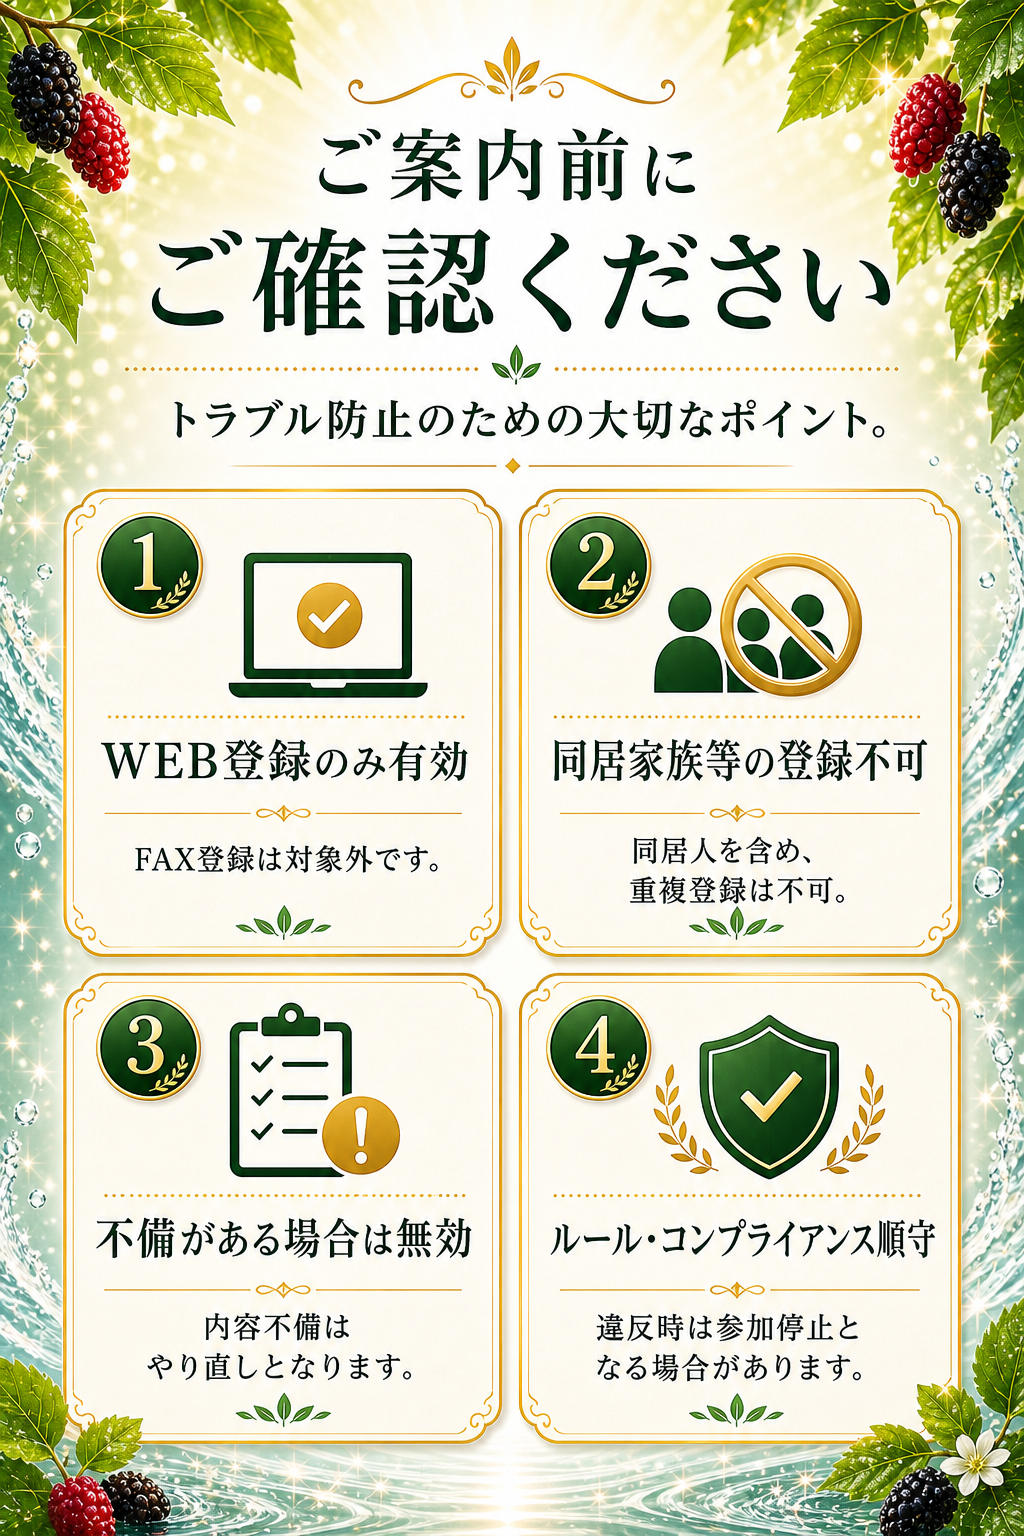
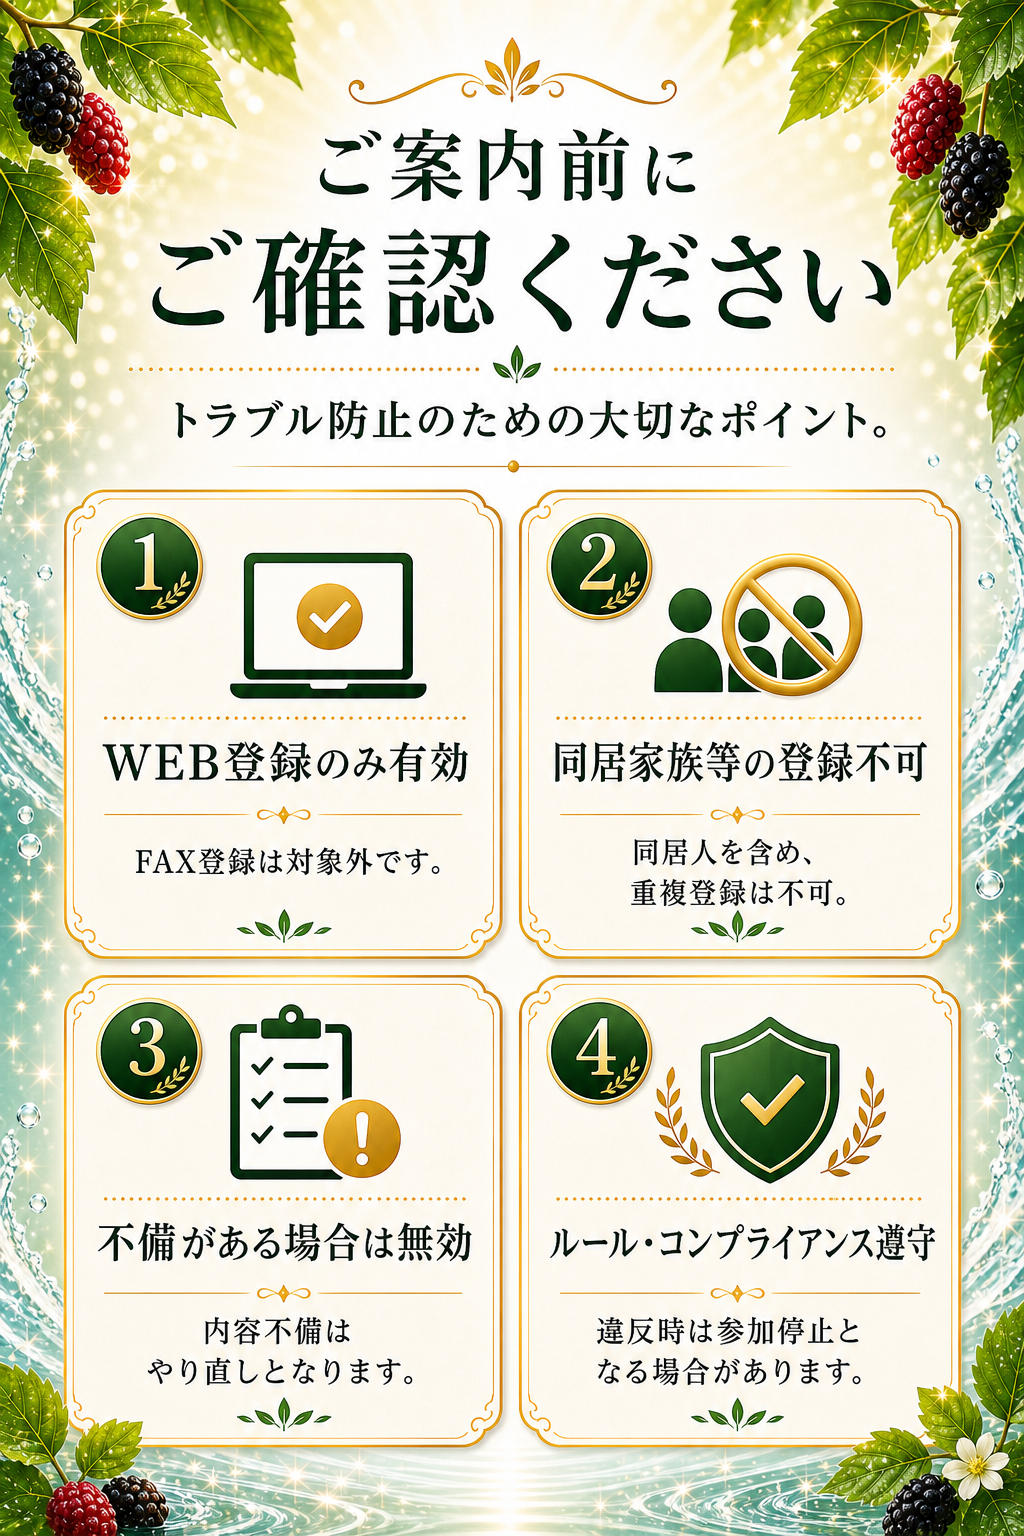
Replace checklist image wording

diff --git a/index.html b/index.html
@@ -58,9 +58,8 @@
         <strong>2026.7.1 - 2026.9.30</strong>
       </section>
 
-      <section class="visual-section checklist-section" aria-label="ご案内前にご確認ください">
+      <section class="visual-section" aria-label="ご案内前にご確認ください">
         <img src="assets/section-09-checklist.png" alt="ご案内前にご確認ください">
-        <span class="checklist-compliance-fix" aria-hidden="true">ルール・コンプライアンス遵守</span>
       </section>
 
       <section class="visual-section download-section" id="download" aria-label="チラシをダウンロード">

diff --git a/styles.css b/styles.css
@@ -118,26 +118,6 @@ a {
   height: 7.4%;
 }
 
-.checklist-compliance-fix {
-  position: absolute;
-  left: 50.7%;
-  top: 77.3%;
-  z-index: 2;
-  display: flex;
-  align-items: center;
-  justify-content: center;
-  width: 45.8%;
-  height: 4.6%;
-  color: #002a19;
-  background: #fcf7e5;
-  font-family: "Yu Mincho", "Hiragino Mincho ProN", serif;
-  font-size: clamp(10px, 3vw, 22px);
-  font-weight: 700;
-  line-height: 1;
-  letter-spacing: -0.08em;
-  text-shadow: 1px 1px 0 rgba(210, 220, 200, 0.5);
-}
-
 .qa-section {
   position: relative;
   overflow: hidden;
